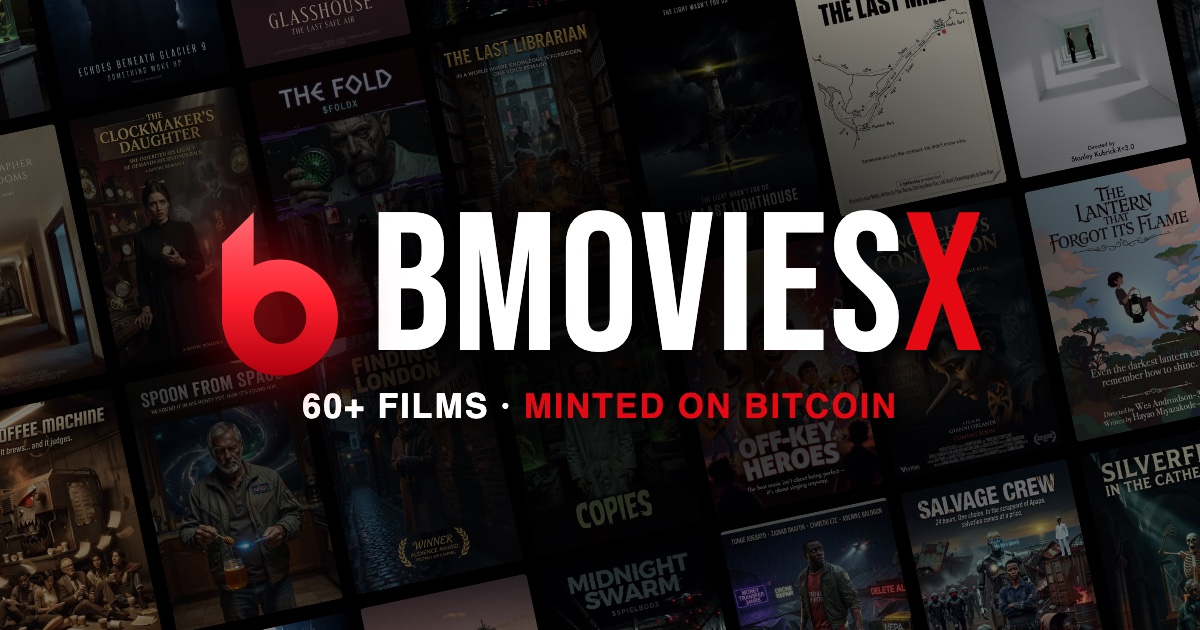
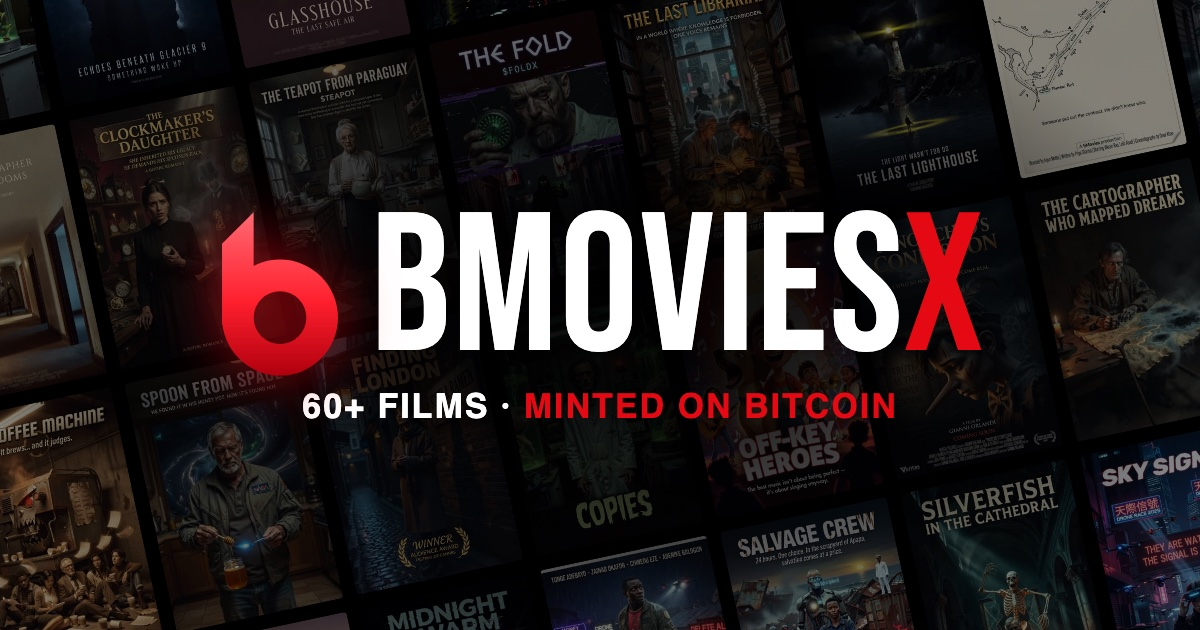
Point og:image/twitter:image at v3a; drop posters with real-person credits from v3b

diff --git a/og-src/v3b.html b/og-src/v3b.html
@@ -5,5 +5,5 @@
 .c{inset:0;display:flex;flex-direction:column;align-items:center;justify-content:center;gap:6px}
 .row{display:flex;align-items:center;gap:26px}.row svg{width:130px;height:176px;filter:drop-shadow(0 0 30px rgba(229,9,20,.7))}.wm{font-size:196px}
 .tag{font-family:Helvetica,Arial,sans-serif;font-weight:800;font-size:34px;letter-spacing:2px;color:#fff;text-transform:uppercase}.tag b{color:#E50914}
-</style><div class="abs wall"><img src="../media/posters/ashes-of-the-border.jpg"><img src="../media/posters/the-cicada-room.jpg"><img src="../media/posters/echoes-beneath-glacier-9.jpg"><img src="../media/posters/glasshouse.jpg"><img src="../media/posters/midnight-swarm.jpg"><img src="../media/posters/neon-requiem.jpg"><img src="../media/posters/salvage-crew.jpg"><img src="../media/posters/silverfish-in-the-cathedral.jpg"><img src="../media/posters/sky-signal.jpg"><img src="../media/posters/sub-orbital-lullaby.jpg"><img src="../media/posters/the-cartographer-of-empty-rooms.jpg"><img src="../media/posters/the-clockmakers-daughter.jpg"><img src="../media/posters/the-fold.jpg"><img src="../media/posters/the-last-librarian.jpg"><img src="../media/posters/the-last-lighthouse.jpg"><img src="../media/posters/the-last-mile.jpg"><img src="../media/posters/the-mirror-protocol.jpg"><img src="../media/posters/the-siren.jpg"><img src="../media/posters/the-weight-of-water.jpg"><img src="../media/posters/the-coffee-machine.jpg"><img src="../media/posters/spoon-from-space.jpg"><img src="../media/posters/finding-london.jpg"><img src="../media/posters/copies.jpg"><img src="../media/posters/off-key-heroes.jpg"><img src="../media/posters/pinocchio-s-confession.jpg"><img src="../media/posters/the-lantern-that-forgot-its-flame.jpg"><img src="../media/posters/the-cartographer-who-mapped-dreams.jpg"><img src="../media/posters/ashes-of-the-border.jpg"><img src="../media/posters/the-cicada-room.jpg"><img src="../media/posters/echoes-beneath-glacier-9.jpg"><img src="../media/posters/glasshouse.jpg"><img src="../media/posters/midnight-swarm.jpg"><img src="../media/posters/neon-requiem.jpg"><img src="../media/posters/salvage-crew.jpg"><img src="../media/posters/silverfish-in-the-cathedral.jpg"><img src="../media/posters/sky-signal.jpg"><img src="../media/posters/sub-orbital-lullaby.jpg"><img src="../media/posters/the-cartographer-of-empty-rooms.jpg"><img src="../media/posters/the-clockmakers-daughter.jpg"><img src="../media/posters/the-fold.jpg"><img src="../media/posters/the-last-librarian.jpg"><img src="../media/posters/the-last-lighthouse.jpg"><img src="../media/posters/the-last-mile.jpg"><img src="../media/posters/the-mirror-protocol.jpg"><img src="../media/posters/the-siren.jpg"><img src="../media/posters/the-weight-of-water.jpg"><img src="../media/posters/the-coffee-machine.jpg"><img src="../media/posters/spoon-from-space.jpg"><img src="../media/posters/finding-london.jpg"><img src="../media/posters/copies.jpg"><img src="../media/posters/off-key-heroes.jpg"><img src="../media/posters/pinocchio-s-confession.jpg"><img src="../media/posters/the-lantern-that-forgot-its-flame.jpg"><img src="../media/posters/the-cartographer-who-mapped-dreams.jpg"></div><div class="abs v"></div>
+</style><div class="abs wall"><img src="../media/posters/ashes-of-the-border.jpg"><img src="../media/posters/the-cicada-room.jpg"><img src="../media/posters/echoes-beneath-glacier-9.jpg"><img src="../media/posters/glasshouse.jpg"><img src="../media/posters/midnight-swarm.jpg"><img src="../media/posters/neon-requiem.jpg"><img src="../media/posters/salvage-crew.jpg"><img src="../media/posters/silverfish-in-the-cathedral.jpg"><img src="../media/posters/sky-signal.jpg"><img src="../media/posters/sub-orbital-lullaby.jpg"><img src="../media/posters/the-cartographer-of-empty-rooms.jpg"><img src="../media/posters/the-clockmakers-daughter.jpg"><img src="../media/posters/the-teapot-from-paraguay.jpg"><img src="../media/posters/the-fold.jpg"><img src="../media/posters/the-last-librarian.jpg"><img src="../media/posters/the-last-lighthouse.jpg"><img src="../media/posters/the-last-mile.jpg"><img src="../media/posters/the-siren.jpg"><img src="../media/posters/the-weight-of-water.jpg"><img src="../media/posters/the-coffee-machine.jpg"><img src="../media/posters/spoon-from-space.jpg"><img src="../media/posters/finding-london.jpg"><img src="../media/posters/copies.jpg"><img src="../media/posters/off-key-heroes.jpg"><img src="../media/posters/pinocchio-s-confession.jpg"><img src="../media/posters/the-cartographer-who-mapped-dreams.jpg"><img src="../media/posters/ashes-of-the-border.jpg"><img src="../media/posters/the-cicada-room.jpg"><img src="../media/posters/echoes-beneath-glacier-9.jpg"><img src="../media/posters/glasshouse.jpg"><img src="../media/posters/midnight-swarm.jpg"><img src="../media/posters/neon-requiem.jpg"><img src="../media/posters/salvage-crew.jpg"><img src="../media/posters/silverfish-in-the-cathedral.jpg"><img src="../media/posters/sky-signal.jpg"><img src="../media/posters/sub-orbital-lullaby.jpg"><img src="../media/posters/the-cartographer-of-empty-rooms.jpg"><img src="../media/posters/the-clockmakers-daughter.jpg"><img src="../media/posters/the-teapot-from-paraguay.jpg"><img src="../media/posters/the-fold.jpg"><img src="../media/posters/the-last-librarian.jpg"><img src="../media/posters/the-last-lighthouse.jpg"><img src="../media/posters/the-last-mile.jpg"><img src="../media/posters/the-siren.jpg"><img src="../media/posters/the-weight-of-water.jpg"><img src="../media/posters/the-coffee-machine.jpg"><img src="../media/posters/spoon-from-space.jpg"><img src="../media/posters/finding-london.jpg"><img src="../media/posters/copies.jpg"><img src="../media/posters/off-key-heroes.jpg"><img src="../media/posters/pinocchio-s-confession.jpg"><img src="../media/posters/the-cartographer-who-mapped-dreams.jpg"></div><div class="abs v"></div>
 <div class="abs c"><div class="row"><svg viewBox="23 8 74 100" xmlns="http://www.w3.org/2000/svg"><defs><linearGradient id="g" gradientUnits="userSpaceOnUse" x1="0" y1="12" x2="0" y2="105"><stop offset="0" stop-color="#FF6B74"/><stop offset=".55" stop-color="#FF1F2D"/><stop offset="1" stop-color="#B0000E"/></linearGradient><mask id="h"><rect width="140" height="140" fill="#fff"/><circle cx="60" cy="72" r="15" fill="#000"/></mask></defs><g fill="url(#g)" mask="url(#h)"><polygon points="45,12 45,76 27,76 27,30"/><circle cx="60" cy="72" r="33"/></g></svg><div class="wm">BMOVIES<i>X</i></div></div><div class="tag">60+ films &middot; <b>minted on Bitcoin</b></div></div>

diff --git a/index.html b/index.html
@@ -11,8 +11,8 @@
 <meta property="og:site_name" content="bMoviesX">
 <meta property="og:title" content="bMoviesX · Upload your movies. Mint them on Bitcoin.">
 <meta property="og:description" content="Put your films on chain from your own bWalletX. You keep the credit and the token.">
-<meta property="og:image" content="https://bmoviesx.com/og-image-v2.jpg">
-<meta property="og:image:secure_url" content="https://bmoviesx.com/og-image-v2.jpg">
+<meta property="og:image" content="https://bmoviesx.com/og-image-v3a.jpg">
+<meta property="og:image:secure_url" content="https://bmoviesx.com/og-image-v3a.jpg">
 <meta property="og:image:type" content="image/jpeg">
 <meta property="og:image:width" content="1200">
 <meta property="og:image:height" content="630">
@@ -21,7 +21,7 @@
 <meta name="twitter:site" content="@bMoviesX">
 <meta name="twitter:title" content="bMoviesX · Upload your movies. Mint them on Bitcoin.">
 <meta name="twitter:description" content="Put your films on chain from your own bWalletX. You keep the credit and the token.">
-<meta name="twitter:image" content="https://bmoviesx.com/og-image-v2.jpg">
+<meta name="twitter:image" content="https://bmoviesx.com/og-image-v3a.jpg">
 <meta name="twitter:image:alt" content="bMoviesX: the round red b logo and wordmark beside the poster for That Weirdo Isn’t Satoshi!, over a wall of bMovies house film and parody posters. Upload your movies. Mint them on Bitcoin.">
 <meta name="theme-color" content="#000000">
 <link rel="manifest" href="/manifest.json">
